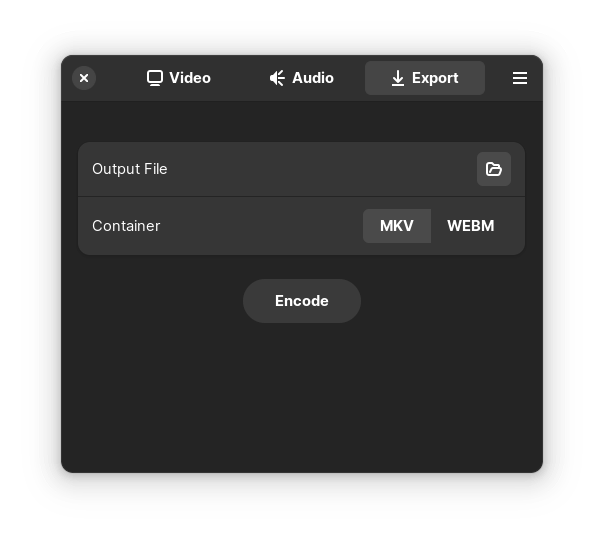
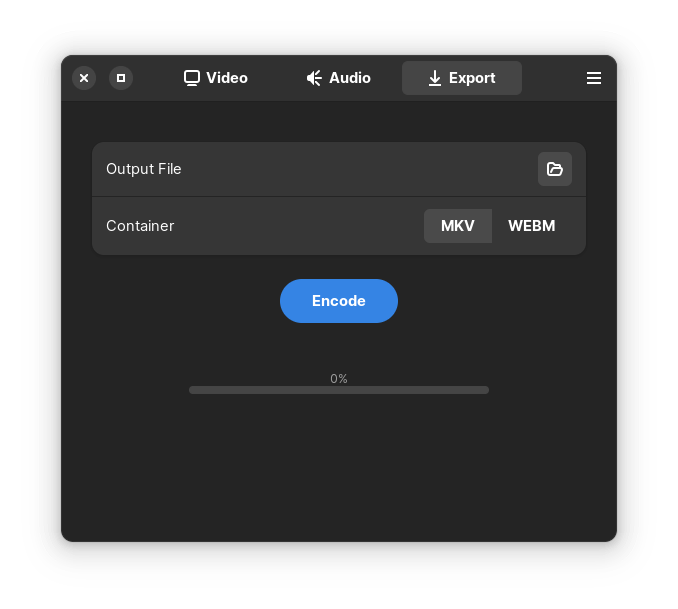
updated assets, updated version, modified margins for ui elements, tooltip changes

diff --git a/src/__init__.py b/src/__init__.py
@@ -331,13 +331,14 @@ class MainWindow(Adw.Window):
                         last_update = time.time_ns()
             self.process.wait()
             self.progress_bar.set_fraction(0)
-            self.progress_bar.set_text("Encode Finished ~ 0%")
             if self.process.returncode == 0:
                 encode_end = time.time() - encode_start
-                notify(f"({humanize(encode_end)}) Finished encoding {output}")
+                notify(f"Encode finished in {humanize(encode_end)}! ✈")
+                self.progress_bar.set_text(f"Encode finished in {humanize(encode_end)}! ✈ ~ 0%")
                 self.stop_button.set_visible(False)
             else:
-                notify(f"Encoding stopped")
+                notify(f"Encode Stopped")
+                self.progress_bar.set_text("Encode Stopped ~ 0%")
                 self.stop_button.set_visible(False)
 
             self.encode_button.set_visible(True)

diff --git a/setup.py b/setup.py
@@ -2,7 +2,7 @@ from setuptools import setup, find_packages
 
 setup(
     name='Aviator',
-    version='0.0.1',
+    version='1.0.0',
     description='AV1/OPUS Encoder GUI',
     author='Nate Sales',
     author_email='nate@natesales.net',
